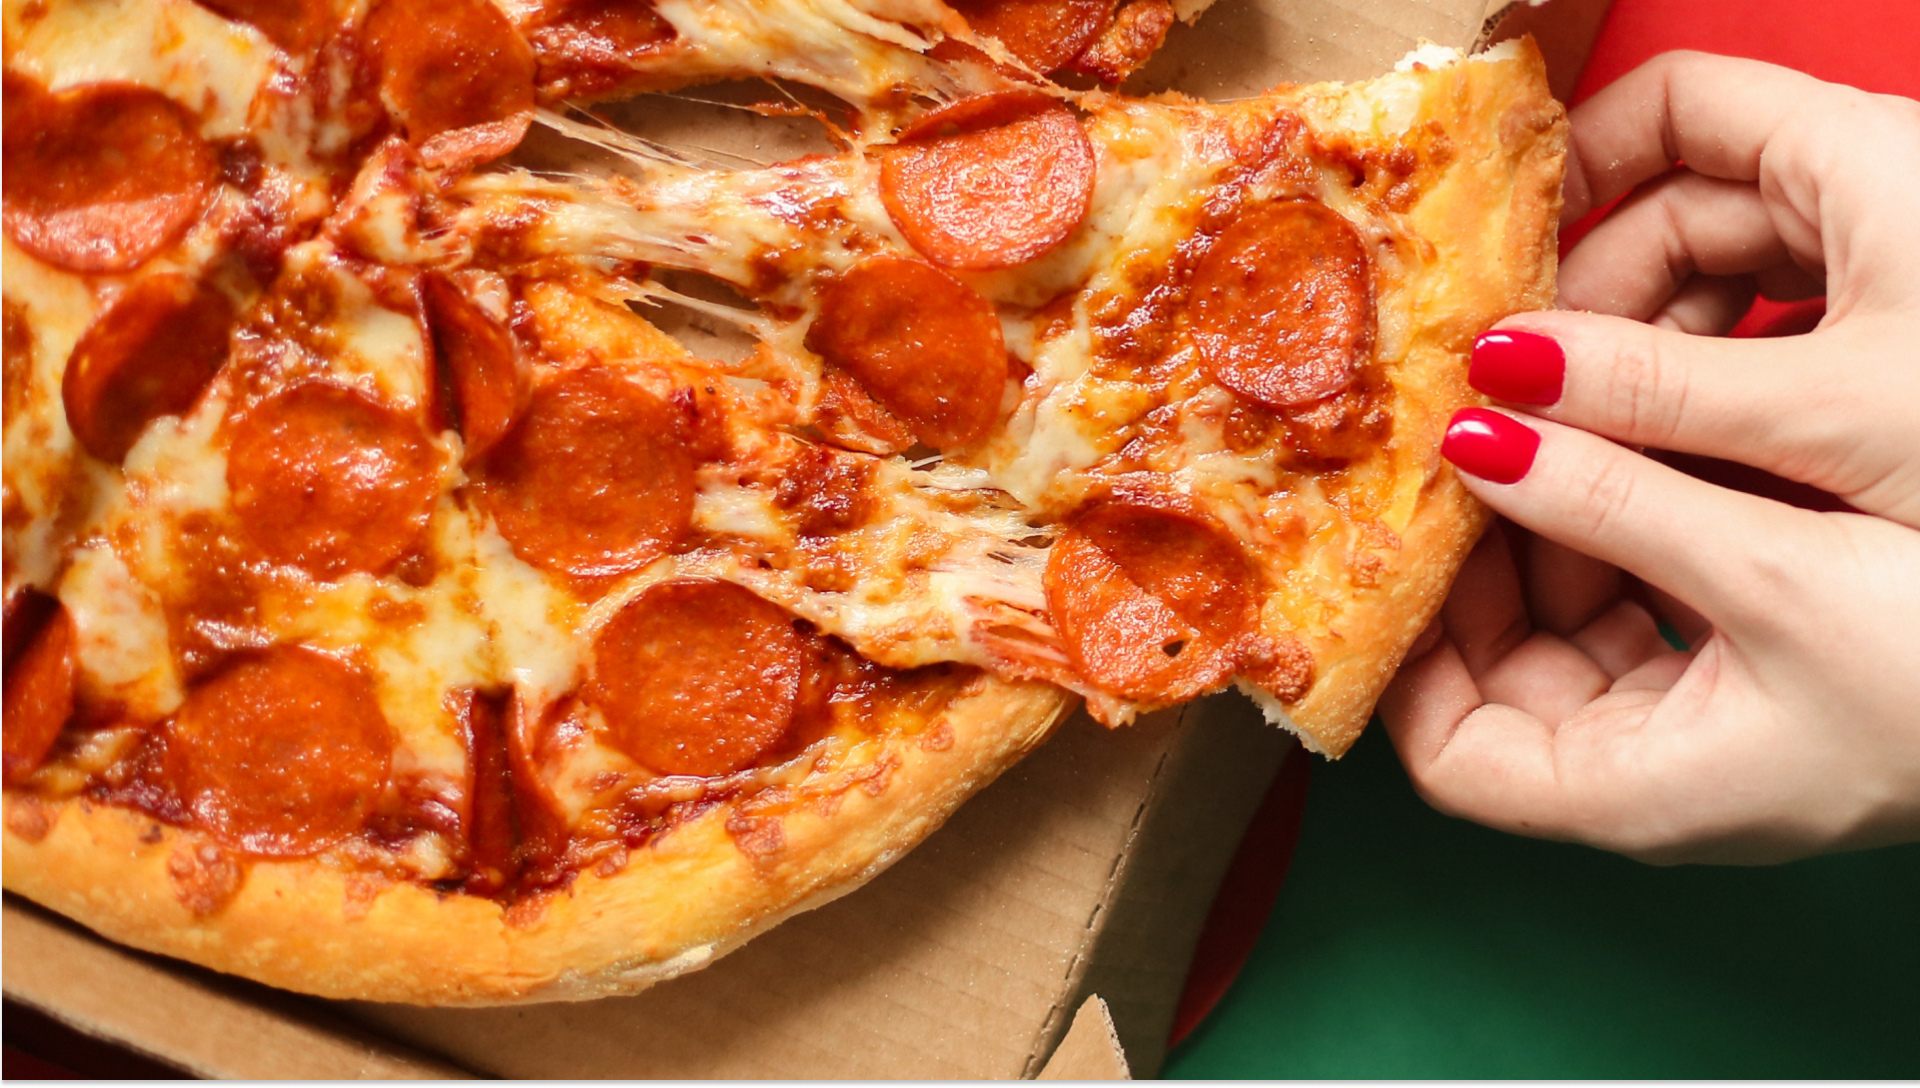
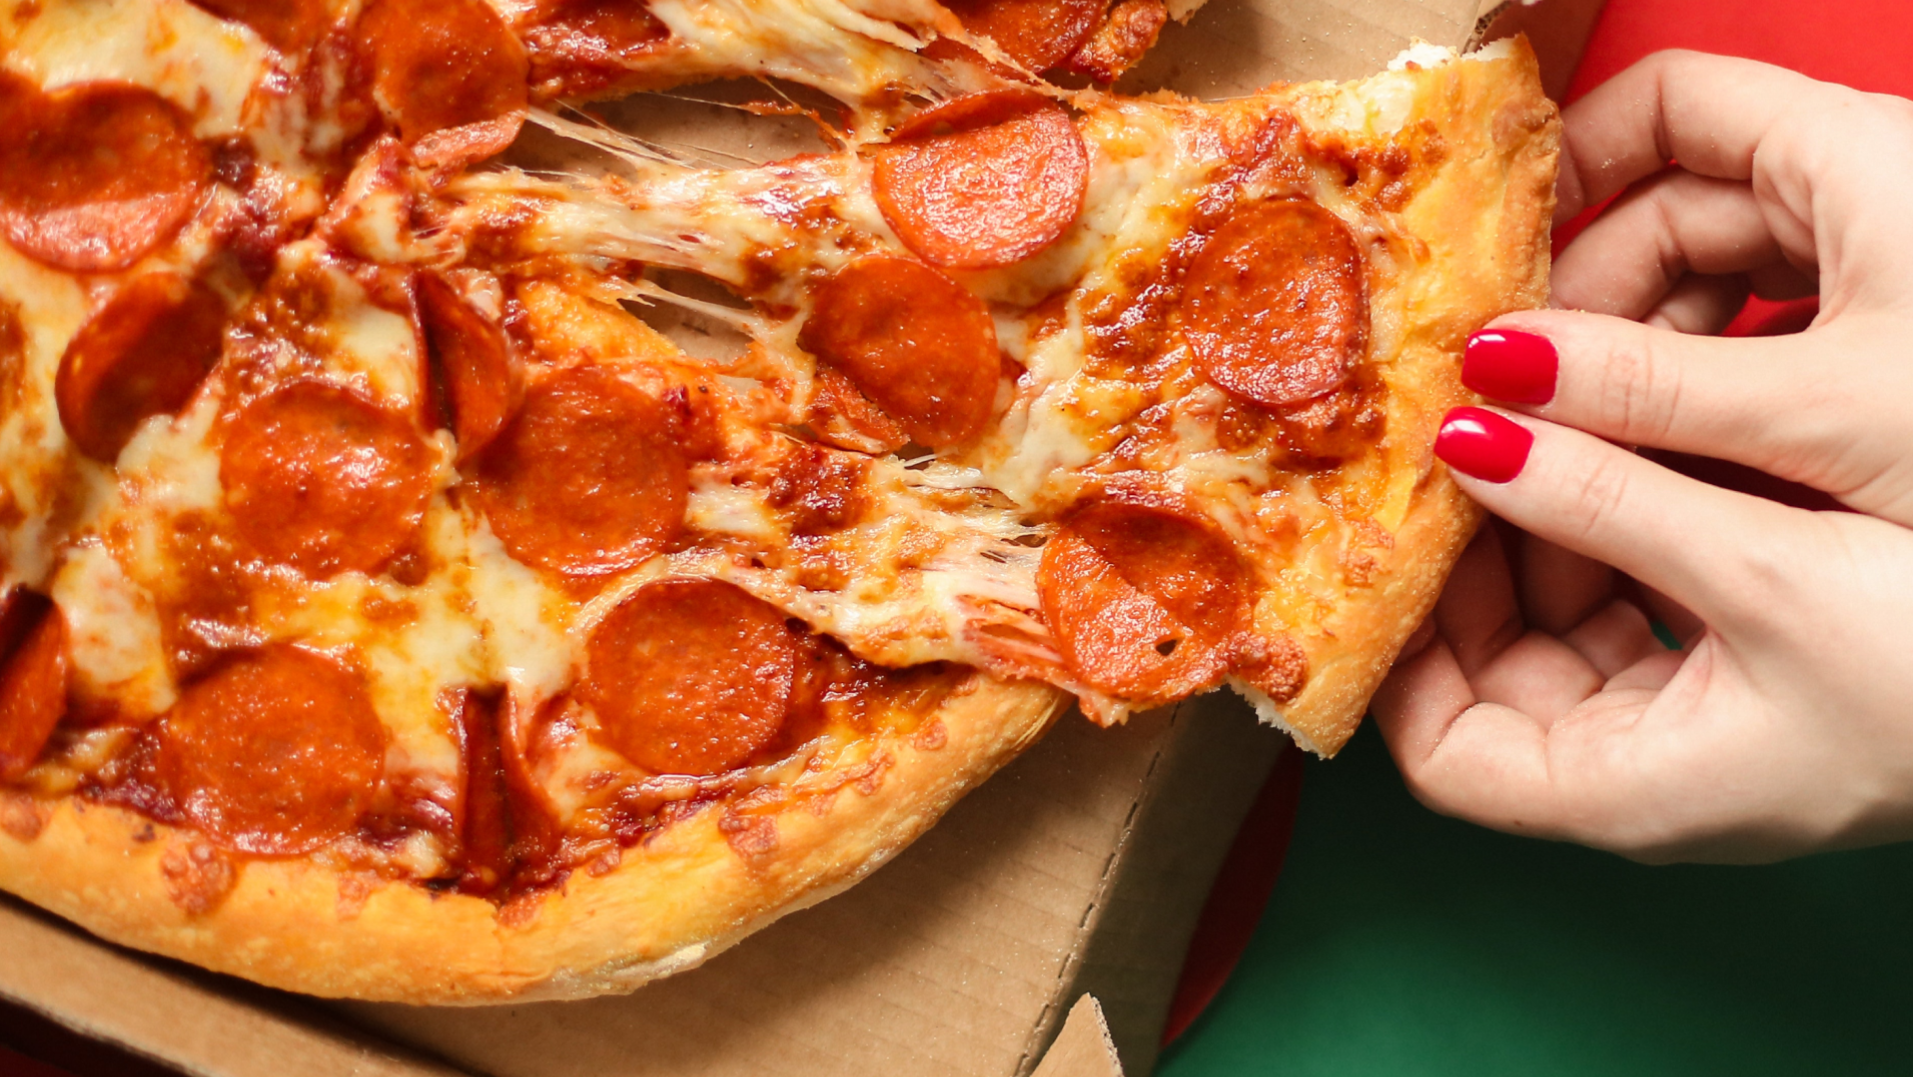
Minor code changes and bg image resize

diff --git a/index.html b/index.html
@@ -3,7 +3,7 @@
 
 <head>
     <meta charset="UTF-8">
-    <title>Pizza</title>
+    <title>Pizzeria website</title>
     <meta name="viewport" content="width=device-width, initial-scale=1">
     <style>
         body {
@@ -204,15 +204,20 @@
         <div class="footer-content">
             <div class="footer-address">
                 <p>123 Pizza Street</p>
+                <p>Pizza town</p>
             </div>
             <div class="footer-hours">
+                <p>Work hours</p>
                 <p>Mon - Sat: 11:00 AM - 10:00 PM</p>
             </div>
             <div class="footer-phone">
+                <p>Contact phone</p>
                 <p>+38 063-636-36-36</p>
             </div>
         </div>
     </footer>
+
+    
 </body>
 
 </html>
